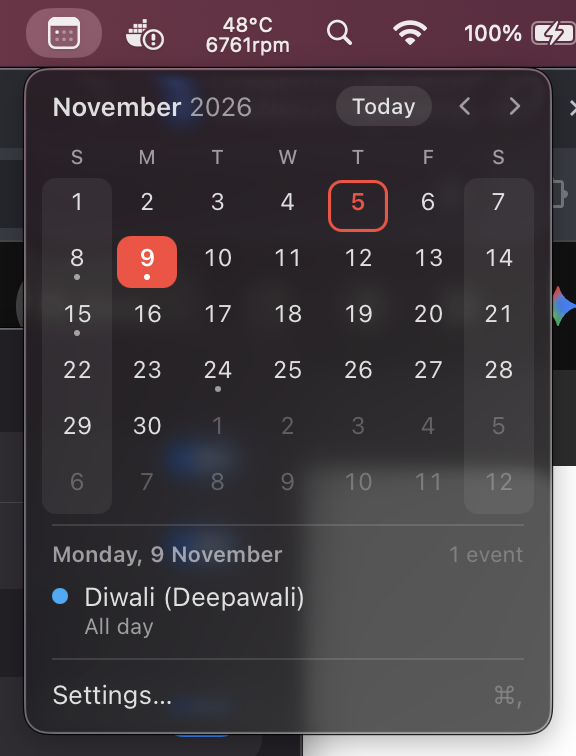
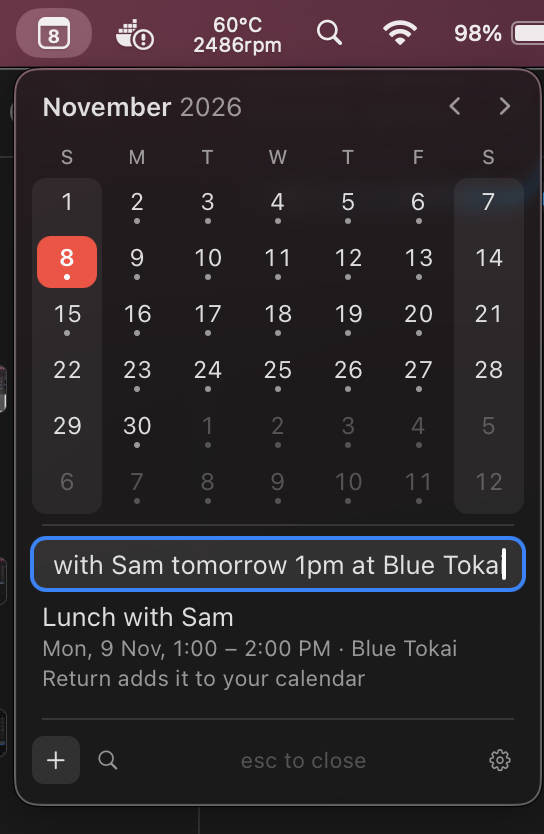
Release 0.10.0: bump the version, add its release notes and new screenshots
Also: ⌘F and ⌘N swap between search and quick add from inside either
field, and their placeholders read as hints rather than typed text.

diff --git a/src/renderer/calendar.ts b/src/renderer/calendar.ts
@@ -1212,17 +1212,18 @@ function startCalendar(api: DesktopApi): void {
       openQuickAddPanel();
       return;
     }
+    // ⌘N and ⌘F work from either field, so one panel swaps for the other.
+    if ((event.key === "f" || event.key === "F") && (event.metaKey || event.ctrlKey)) {
+      event.preventDefault();
+      openSearchPanel();
+      return;
+    }
     if (event.target === quickAddInput) {
       if (event.key === "Enter") {
         event.preventDefault();
         void submitQuickAdd();
       }
       if (!(event.key === "," && (event.metaKey || event.ctrlKey))) return;
-    }
-    if ((event.key === "f" || event.key === "F") && (event.metaKey || event.ctrlKey)) {
-      event.preventDefault();
-      openSearchPanel();
-      return;
     }
     // Typing in the field is typing, not the month's keys. Down moves to the
     // first result, Return opens it.

diff --git a/src/renderer/calendar.css b/src/renderer/calendar.css
@@ -676,6 +676,12 @@ button:focus {
   outline: none;
 }
 
+/* A placeholder reads as a hint, as AppKit's do, not as typed text. */
+.search-input::placeholder {
+  color: var(--tertiary);
+  opacity: 1;
+}
+
 .search-input:focus {
   box-shadow: 0 0 0 2px var(--accent);
 }

diff --git a/docs/release-notes/v0.10.0.md b/docs/release-notes/v0.10.0.md
@@ -1,0 +1,31 @@
+Add events in your own words, search your calendar, and see the days ahead.
+
+Quick add
+- Press ⌘N, or the + at the bottom of the calendar, and type something like "Lunch with Sam tomorrow 1pm at Blue Tokai". A preview shows the day, time and place before you press Return.
+- "for 30m" sets the length, and a date without a time makes an all-day event.
+- Undo stays next to the day for 30 seconds after an event is added.
+- Choose which calendar new events go to in Settings → Events.
+- Add your own Zoom, Meet or Teams link in Settings, and "on zoom" attaches it.
+- With an email address, or "on meet" without a link of your own, Return opens the event in Google Calendar, which sends the invitations and makes the Meet link.
+
+Search
+- Press ⌘F, or the magnifying glass, to find events by title or place, from a month back to three months ahead. Upcoming ones come first.
+
+Coming days
+- The day list can run on into the next few days, so tomorrow's first meeting is already in view. Choose how many in Settings → Calendar.
+
+Second time zone
+- Pick a city in Settings → Calendar to see each meeting's start time there too.
+- Optionally, show that city's time in the menu bar, as in "• NY 11:17 AM".
+
+Reminders
+- Snooze the meeting card for five minutes. A snooze survives a restart.
+- In-person meetings can get a card 10 minutes ahead, with the place and a button that opens it in Maps.
+
+Language and region
+- Dates and the 12- or 24-hour clock follow System Settings → Language & Region.
+- Week numbers can count the ISO way or the US way.
+
+Smaller changes
+- New event, search and Settings are icons at the bottom of the calendar. Point at one to see its shortcut.
+- The header is back to just the month, Today and the arrows.

diff --git a/README.md b/README.md
@@ -6,7 +6,7 @@ nothing leaves this Mac.
 Apple Silicon Macs on macOS 13 or newer. Intel Macs can build it from source.
 
 <p align="center">
-  <img src="docs/screenshots/menubar.png" alt="The month calendar open under its menu bar icon, with the selected day's events" width="300">
+  <img src="docs/screenshots/menubar.png" alt="The month calendar open under its menu bar icon, adding “Lunch with Sam tomorrow 1pm at Blue Tokai” with a preview of the day, time and place" width="272">
   &nbsp;&nbsp;
   <img src="docs/screenshots/settings.png" alt="Settings → Appearance, laid out like System Settings: four menu bar styles, each named, and the theme" width="560">
 </p>
@@ -67,6 +67,10 @@ joining the next meeting. macOS may ask for Accessibility the first time a
 system-wide shortcut fires.
 
 ## Screenshots
+
+<p align="center">
+  <img src="docs/screenshots/search.png" alt="Searching for “Deepavali”: the matching event listed under Today, with new event, search and settings in the footer" width="272">
+</p>
 
 <p align="center">
   <img src="docs/screenshots/countdown.png" alt="The menu bar item counting down to the next meeting: “• in 6m” after the calendar icon" width="110">
